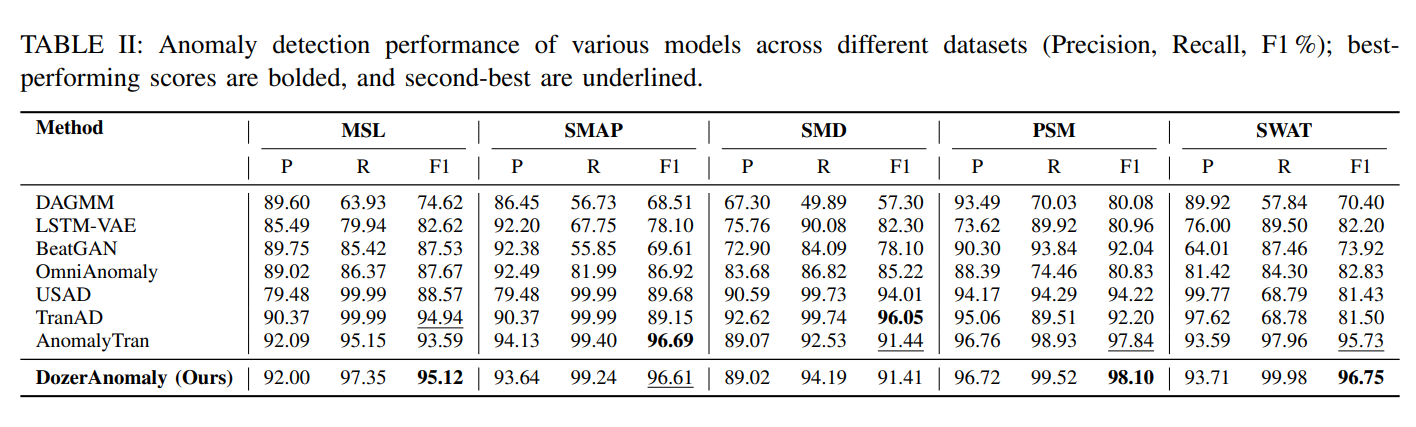
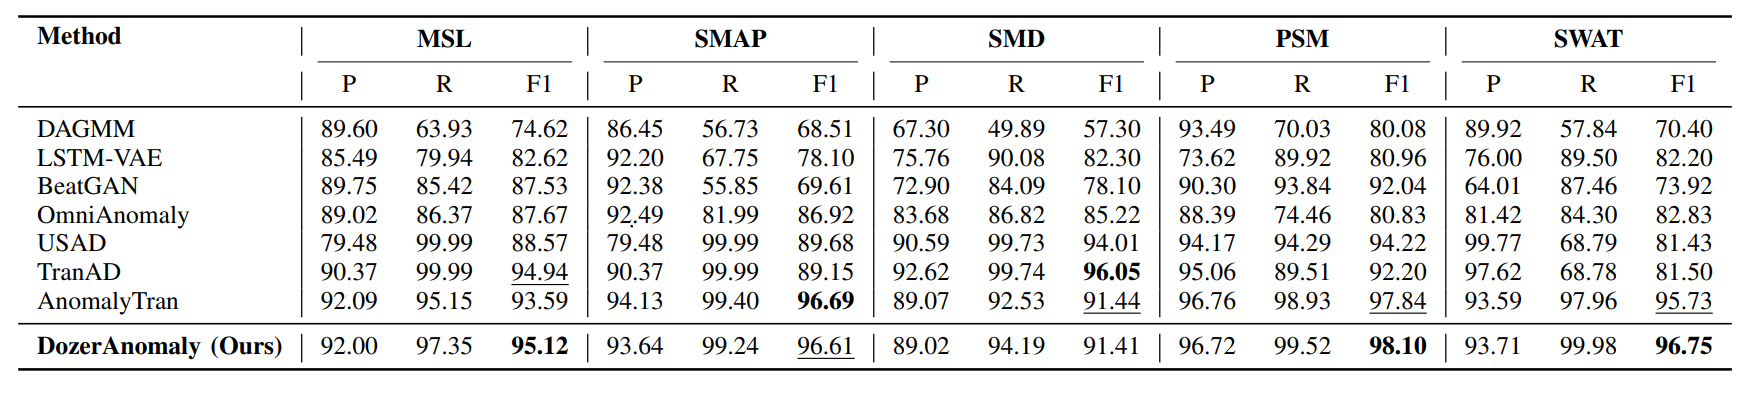
updated doc

Changed region(s): [[0.0, 0.0302, 0.9944, 0.937]]

diff --git a/solver.py b/solver.py
@@ -5,7 +5,7 @@ import numpy as np
 import os
 import time
 from utils.utils import *
-from model.AnomalyTransformer import AnomalyTransformer
+from model.DozerAnomaly import AnomalyTransformer
 from data_factory.data_loader import get_loader_segment
 import argparse
 import wandb

diff --git a/README.md b/README.md
@@ -41,12 +41,15 @@ bash ./scripts/PSM.sh
 
 # Results
 #### Experimental results on Accuracy (F1 Score)
+Anomaly detection performance of various models across different datasets (Precision, Recall, F1 %); bestperforming scores are bolded, and second-best are underlined.
 ![main results](images/results.png)
 
 #### Computational Efficiency
 <!-- ![flop results](images/image.png) -->
+ Operator-wise FLOPs Comparison between
+Anomaly Transformer and DozerAnomal
 
-<img src="images/image.png" alt="My diagram" width="500"/>
+<img src="images/efficiency.png" alt="My diagram" width="500"/>
 
 #### Parameter Sensitivity
 Effect of Sequence length on Computational Efficiency
